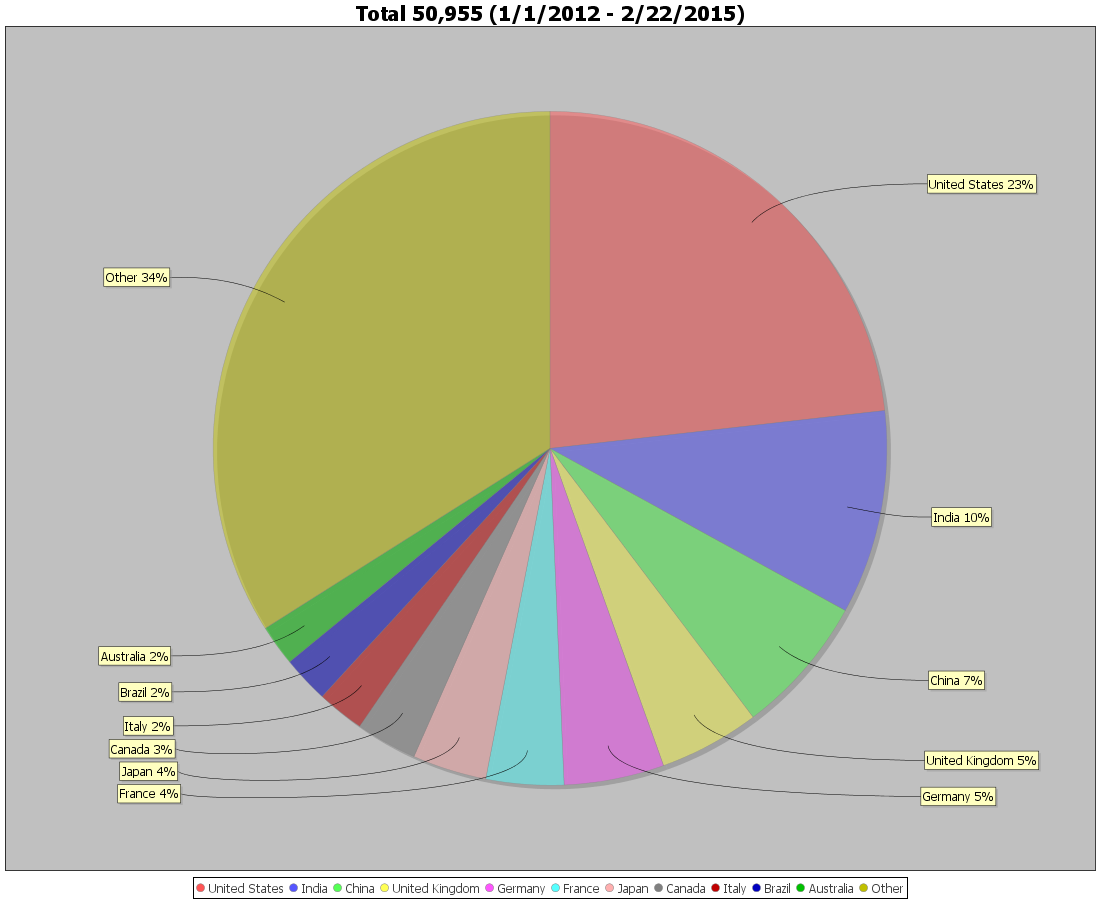
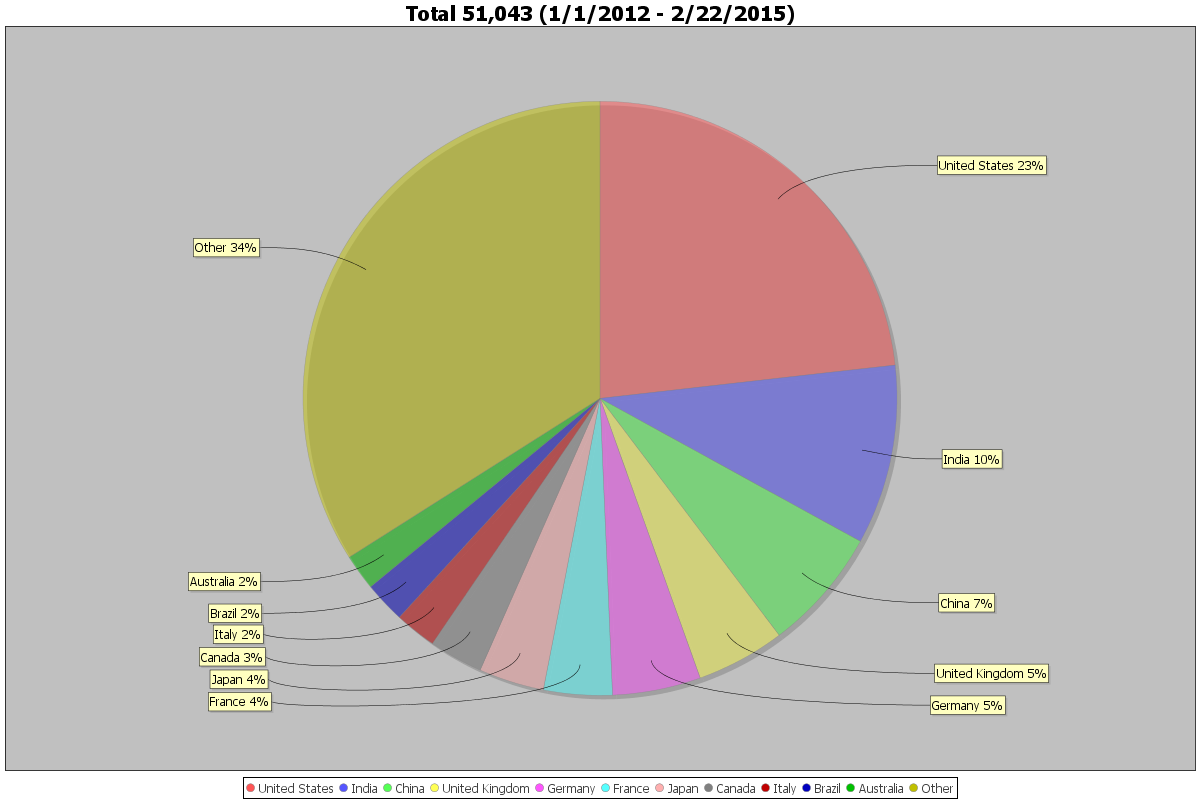
Line chart example

diff --git a/GAVisualizer/src/gavisualizer/GAVisualizer.java b/GAVisualizer/src/gavisualizer/GAVisualizer.java
@@ -40,6 +40,8 @@ import java.io.IOException;
 import org.jfree.chart.ChartUtilities;
 
 import java.text.NumberFormat;
+import java.text.SimpleDateFormat;
+import java.util.Date;
 /**
  * A simple example of how to access the Google Analytics API using a service
  * account.
@@ -50,7 +52,7 @@ public class GAVisualizer {
     
     public static void main(String[] args) {
         try {
-            ChartGenerator generator = new ChartGenerator("", 1100, 900);
+            ChartGenerator generator = new ChartGenerator("", 1200, 800);
             GoogleApiManager api = new GoogleApiManager();
             
             // PieChart - Sessions by Country
@@ -63,9 +65,10 @@ public class GAVisualizer {
             
             // LineChart - Sessions by Country
             GaData raw2 = api.getWebsiteDownloads();
-            CategoryDataset ds2 = createDSWebsiteDownloads(raw2);
+            GaData rawWebsiteSessionsByWeek = api.getWebsiteSessionsByWeek();
+            CategoryDataset ds2 = createDSWebsiteDownloads(raw2, rawWebsiteSessionsByWeek);
             String title2 = createTitleWebsiteDownloads(raw2);
-            LineChart chart2 = new LineChart(title2, ds2);
+            LineChart chart2 = new LineChart(title2, ds2, "Week", "Count");
             
             generator.generateAndSaveChart(chart2, "website_downloads.png");            
         } catch (Exception e) {
@@ -121,55 +124,60 @@ public class GAVisualizer {
     
    private static String createTitleWebsiteDownloads(GaData raw)
     {
-        return "Total (1/1/2012 - 2/22/2015)";
+        return "Web Site Visits (cytoscape.org) and Cytoscape Downloads (via download.php) (2012 - 2015)"; // TODO: Make this dynamic
     }
     
-    private static CategoryDataset createDSWebsiteDownloads(GaData raw)
+    private static CategoryDataset createDSWebsiteDownloads(GaData raw, GaData rawWebsiteSessionsByWeek)
     {
-        final String series1 = "First";
-        final String series2 = "Second";
-        final String series3 = "Third";
-
-        // column keys...
-        final String type1 = "Type 1";
-        final String type2 = "Type 2";
-        final String type3 = "Type 3";
-        final String type4 = "Type 4";
-        final String type5 = "Type 5";
-        final String type6 = "Type 6";
-        final String type7 = "Type 7";
-        final String type8 = "Type 8";
-
         // create the dataset...
         final DefaultCategoryDataset dataset = new DefaultCategoryDataset();
-
-        dataset.addValue(1.0, series1, type1);
-        dataset.addValue(4.0, series1, type2);
-        dataset.addValue(3.0, series1, type3);
-        dataset.addValue(5.0, series1, type4);
-        dataset.addValue(5.0, series1, type5);
-        dataset.addValue(7.0, series1, type6);
-        dataset.addValue(7.0, series1, type7);
-        dataset.addValue(8.0, series1, type8);
-
-        dataset.addValue(5.0, series2, type1);
-        dataset.addValue(7.0, series2, type2);
-        dataset.addValue(6.0, series2, type3);
-        dataset.addValue(8.0, series2, type4);
-        dataset.addValue(4.0, series2, type5);
-        dataset.addValue(4.0, series2, type6);
-        dataset.addValue(2.0, series2, type7);
-        dataset.addValue(1.0, series2, type8);
-
-        dataset.addValue(4.0, series3, type1);
-        dataset.addValue(3.0, series3, type2);
-        dataset.addValue(2.0, series3, type3);
-        dataset.addValue(3.0, series3, type4);
-        dataset.addValue(6.0, series3, type5);
-        dataset.addValue(3.0, series3, type6);
-        dataset.addValue(4.0, series3, type7);
-        dataset.addValue(3.0, series3, type8);
-
+        
+        SimpleDateFormat sdf = new SimpleDateFormat("dd/MM/yyyy");
+        Date d;
+        try
+        {
+            d = sdf.parse("1/1/2012");
+        }
+        catch(Exception e)
+        {
+            
+        }
+        
+        int year = 2012; // TODO: pull year from FromDate
+        final int weeksInYear = 52;
+        
+        if (rawWebsiteSessionsByWeek != null && !rawWebsiteSessionsByWeek.getRows().isEmpty()) {
+            List<List<String>> rows = rawWebsiteSessionsByWeek.getRows();
+            
+            int count = 0;
+            for (List<String> r : rows)
+            {
+                dataset.addValue(Integer.parseInt(r.get(1)), year + " Visits", Integer.toString(count));
+                count++;
+                if (count >= weeksInYear)
+                {
+                    count = 0;
+                    year++;
+                }
+            }
+        }        
+        
+        if (raw != null && !raw.getRows().isEmpty()) {
+            List<List<String>> rows = raw.getRows();
+            
+            int count = 0;
+            for (List<String> r : rows)
+            {
+                dataset.addValue(Integer.parseInt(r.get(1)), year + " Downloads", Integer.toString(count));
+                count++;
+                if (count >= weeksInYear)
+                {
+                    count = 0;
+                    year++;
+                }
+            }
+        }
+        
         return dataset;
     }    
 }

diff --git a/GAVisualizer/src/gavisualizer/LineChart.java b/GAVisualizer/src/gavisualizer/LineChart.java
@@ -31,22 +31,26 @@ public class LineChart implements IChart {
     private CategoryDataset _dataset;
     private JFreeChart _chart;
     private String _title;
+    private String _axisLabelDomain;
+    private String _axisLabelRange;
     
-    LineChart(String title, CategoryDataset dataset) {
+    LineChart(String title, CategoryDataset dataset, String axisLabelDomain, String axisLabelRange) {
         _dataset = dataset;
         _title = title;
+        _axisLabelDomain = axisLabelDomain;
+        _axisLabelRange = axisLabelRange;
     }
     
     public void generate()
     {
         JFreeChart chart = ChartFactory.createLineChart(
-            "Line Chart Demo 1",       // chart title
-            "Type",                    // domain axis label
-            "Value",                   // range axis label
-            _dataset,                   // data
+            _title,                    // chart title
+            _axisLabelDomain,          // domain axis label
+            _axisLabelRange,           // range axis label
+            _dataset,                  // data
             PlotOrientation.VERTICAL,  // orientation
             true,                      // include legend
-            true,                      // tooltips
+            false,                     // tooltips
             false                      // urls
         );
 

diff --git a/GAVisualizer/src/gavisualizer/GoogleApiManager.java b/GAVisualizer/src/gavisualizer/GoogleApiManager.java
@@ -48,7 +48,14 @@ public class GoogleApiManager {
                 .setDimensions("ga:country")
                 .setSort("-ga:sessions")
                 .execute();
-    }   
+    }
+    
+    public GaData getWebsiteSessionsByWeek() throws IOException {
+        return _analytics.data().ga()
+                .get("ga:" + _profile, "2012-01-01", "2015-02-22", "ga:sessions")
+                .setDimensions("ga:nthWeek")
+                .execute();
+    }     
     
     public GaData getWebsiteDownloads() throws IOException {
         return _analytics.data().ga()
